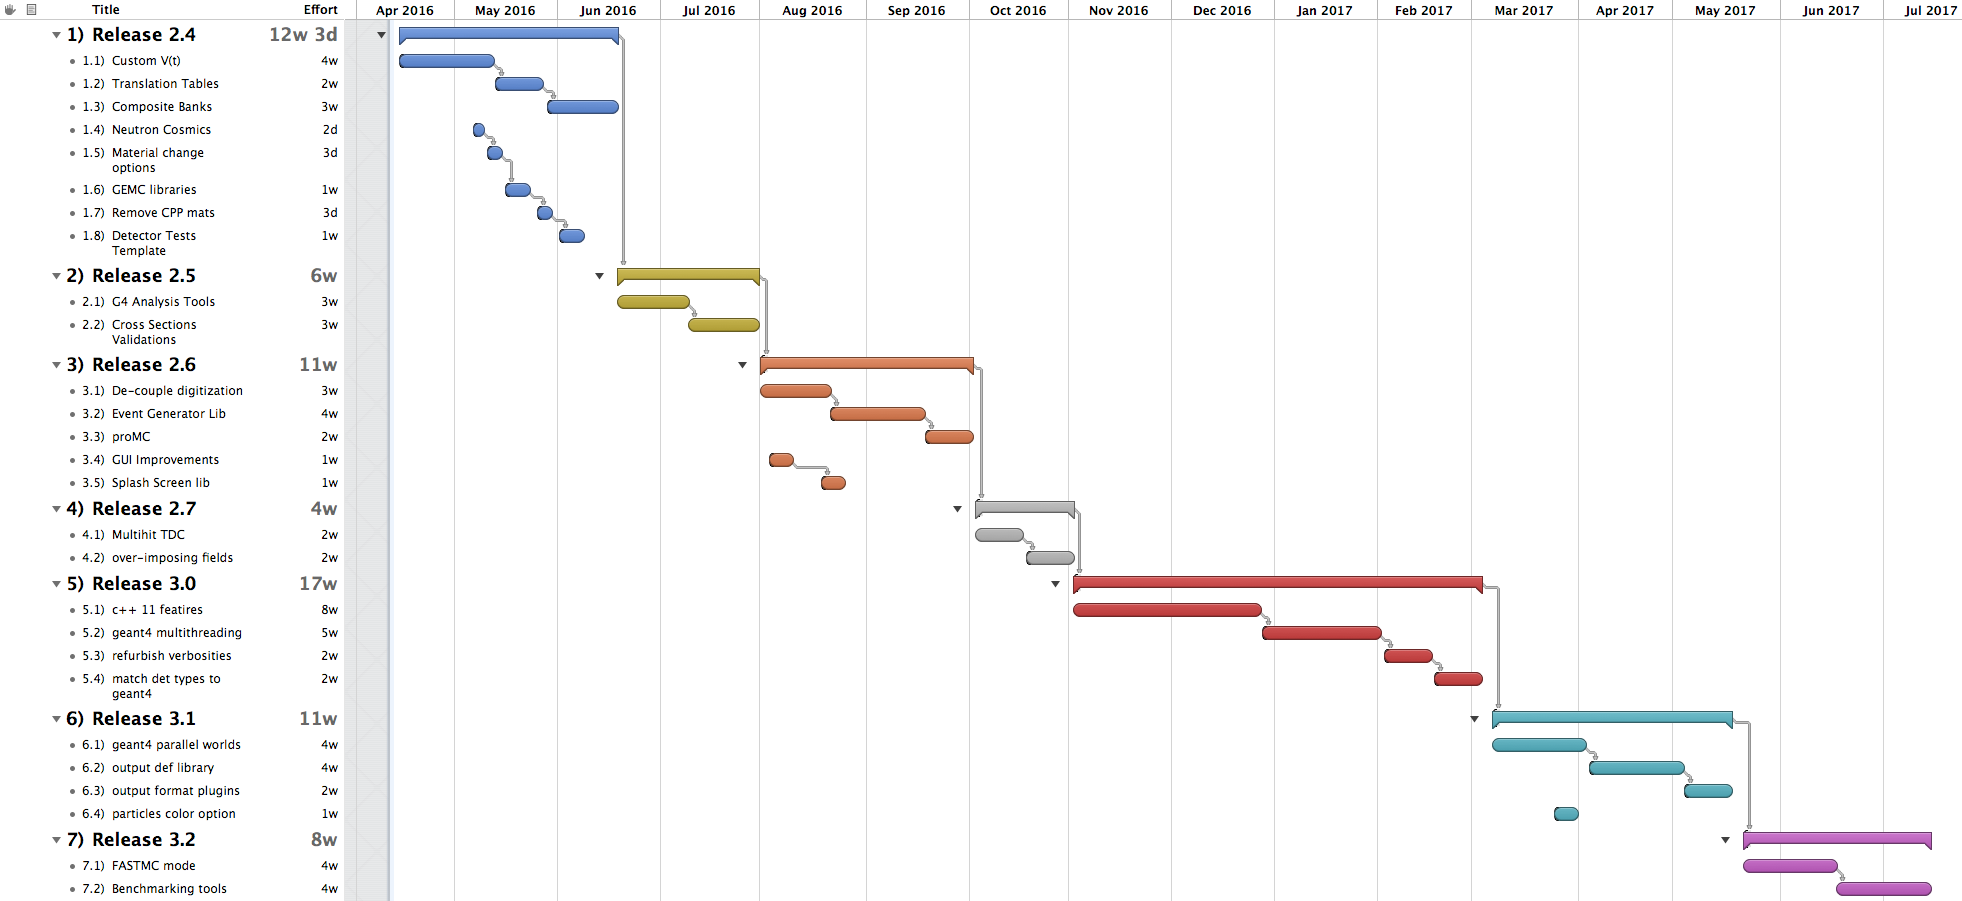
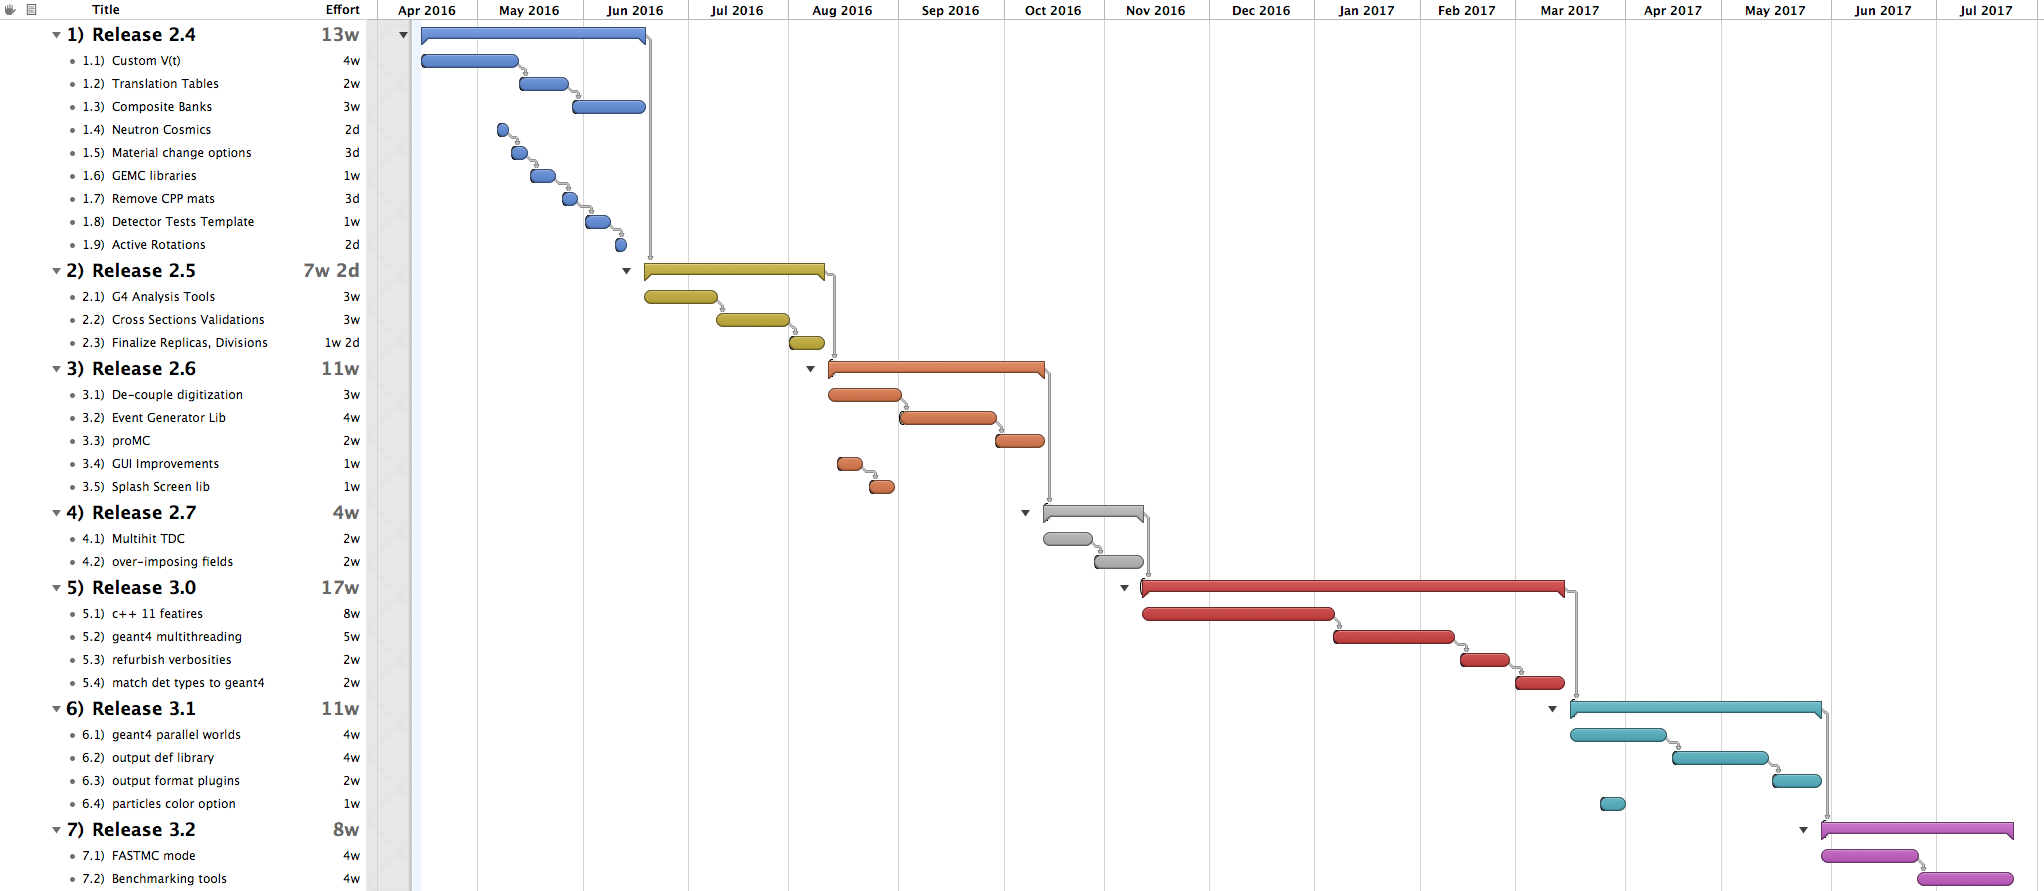
documentation installation is a separate section. roadmap updated

diff --git a/webPage/source/documentation/installation.rst b/webPage/source/documentation/installation.rst
@@ -21,21 +21,9 @@ Installing gemc on Windows 10
 This is expected to happen in Winter 2016.
 
 
-Getting and compiling gemc source code
---------------------------------------
 
-If you have the dependencies libraries and environment already installed you can simply get the gemc
-`source code from github <https://github.com/gemc/source>`_ and type::
-
- cd source
- scons -jN OPT=1
-
-to compile gemc. N refers to the numbers of cores in your processor and the "OPT=1" argument
-tells scons to compile with optimization.
-
-
-Installing gemc and all its dependencies
-----------------------------------------
+Getting and compiling gemc (all platforms)
+------------------------------------------
 
 gemc requires several libraries and environment:
 
@@ -54,4 +42,16 @@ All the packages listed "go_gemc" are necessary in order to run gemc. The packag
 
 Some experiment's geometry, materials, fields etc can also be downloaded from the :ref:`downloads`.
 
+
+latest gemc source code (github)
+--------------------------------
+
+If you have the dependencies libraries above and environment already installed you can simply get the gemc
+`source code from github <https://github.com/gemc/source>`_ and type::
+
+ cd source
+ scons -jN OPT=1
+
+to compile gemc. N refers to the numbers of cores in your processor and the "OPT=1" argument
+tells scons to compile with optimization.
 

diff --git a/webPage/source/documentation/releases/roadmap.rst b/webPage/source/documentation/releases/roadmap.rst
@@ -49,12 +49,15 @@ GEMC 2.4
 
 - remove more obsolete cpp materials.
 
+- add physical volume constructor - active rotations
 
 GEMC 2.5
 --------
 - G4Analysis tool for all detectors fluxes
 
 - Physics Cross Section Validation at JLab regine. SAID tables, inclusive cross section.
+
+- Finalize implementation of Replicas and Divisions.
 
 GEMC 2.6
 --------

diff --git a/webPage/source/documentation/documentation.rst b/webPage/source/documentation/documentation.rst
@@ -22,7 +22,20 @@ GEMC Documentation
 	detectorDefinition
 	hitDefinition
 	runningJLab
+
+
+GEMC Installation
+==================
+
+.. toctree::
+	:maxdepth: 2
+
 	installation
+
+FAQ
+===
+
+.. toctree::
+	:maxdepth: 2
+
 	FAQ
-
-
